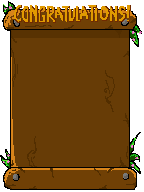
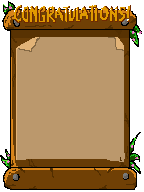
newly added

diff --git a/lib/models/session_model.dart b/lib/models/session_model.dart
@@ -8,7 +8,7 @@ enum SessionStatus { idle, running, paused, completed, failed }
 /// to this to update the clock, and reacts to completed/failed to
 /// grow or wilt the plant.
 class SessionModel extends ChangeNotifier {
-  static const int sessionLengthSeconds = 10; // 25:00, matches the Figma
+  static const int sessionLengthSeconds = 25 * 60; // 25:00, matches the Figma
 
   int secondsLeft = sessionLengthSeconds;
   SessionStatus status = SessionStatus.idle;
